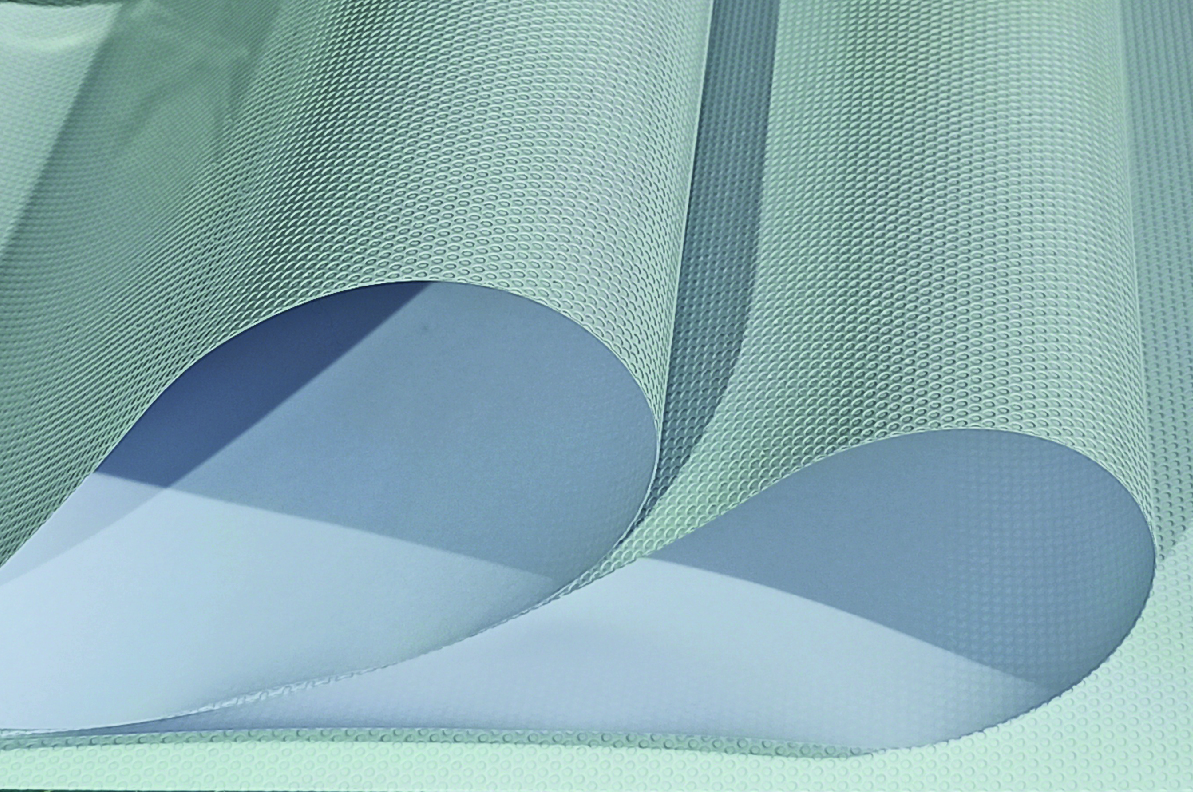
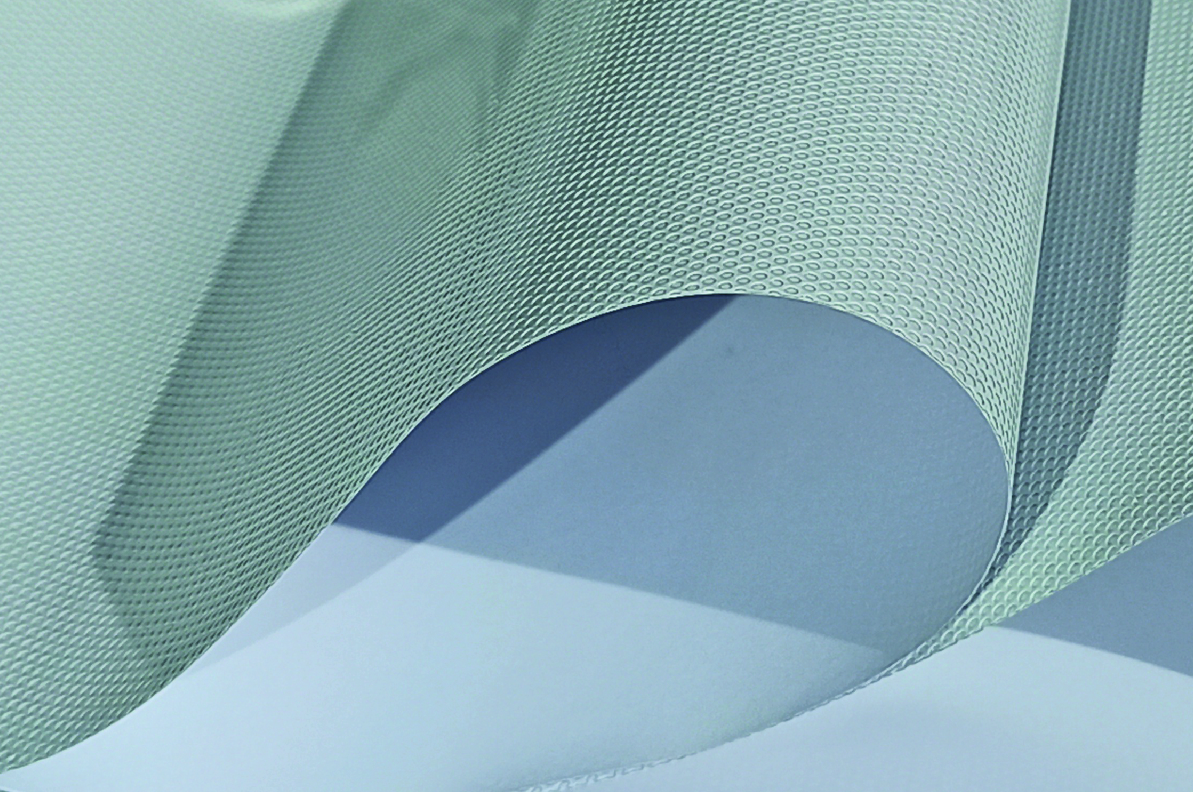
some changes

diff --git a/index.html b/index.html
@@ -31,7 +31,11 @@
             <link rel="preconnect" href="https://fonts.googleapis.com">
             <link rel="preconnect" href="https://fonts.gstatic.com" crossorigin>
             <link href="https://fonts.googleapis.com/css2?family=Poppins:ital,wght@1,600&display=swap" rel="stylesheet">
+            <link rel="preconnect" href="https://fonts.googleapis.com">
+<link rel="preconnect" href="https://fonts.gstatic.com" crossorigin>
+<link href="https://fonts.googleapis.com/css2?family=Ubuntu:wght@700&display=swap" rel="stylesheet">
         <link rel="stylesheet" href="style.css" type="text/css"/>
+        
     </head>
 
     <!-- Las media queries (en español "consultas de medios") son útiles cuando deseas 
@@ -113,11 +117,11 @@
                     <img src="images/sk.jpg" class="d-block" style="width:100%; height:75%; object-fit:cover;" alt="ploteos-gráfica-grando">
                     <div class="carousel-caption d-none d-md-block bg-light bg-opacity-50">
                       
-                      <h2 class="border-bottom d-inline" style="border:botton; color: black;">
+                      <h2 class="contact-txt border-bottom d-inline" style="border:botton; color: black;">
                         SOBRE NOSOTROS
                       </h2>
-                      <p class="fs-3 " style="color:rgb(44, 43, 37);">
-                        Somos una grafica dedicada a la carteleria y publicidad. Ofrecemos servicios de impresión, ploteo, rotulacion y colocacion de carteles.
+                      <p class="contact-txt fs-3 " style="color:rgb(44, 43, 37);">
+                        Somos una gráfica dedicada a la carteleria. Ofrecemos servicios de impresión, ploteado, rotulacion y colocacion de carteles.
                       </p>
                     </div>
 
@@ -249,7 +253,7 @@
                 </div>
                 <div class="col-12 col-md-6 col-lg-4 mt-3">
                   <div class="card text-center w-100 h-auto">
-                    <img src="images/rollo lona blackout.png" class="card-img-top" alt="...">
+                    <img src="images/rollo_blackout_v2.jpg" class="card-img-top" alt="...">
                     <div class="card-body">
                       <h5 class="card-title">Lona Blackout.</h5>
                       <button type="button" class="btn btn-primary" data-bs-toggle="modal" data-bs-target="#modalblack">
@@ -336,7 +340,8 @@
                               </div>
                             </div>
                             <div class="modal-footer">
-                              <button type="button" class="btn btn-primary">Trabajos</button>
+                              
+                              <button class="btn btn-primary" data-bs-toggle="modal" data-bs-target="#trabajo_imagen_014" data-bs-dismiss="modal">Trabajos</button>
                               <button type="button" class="btn btn-secondary" data-bs-dismiss="modal">Cerrar</button>
                             </div>
                             
@@ -393,7 +398,7 @@
                 </div>
                 <div class="col-12 col-md-6 col-lg-4 mt-3">
                   <div class="card text-center w-100 h-auto">
-                    <img src="images/vinilo_microperforado_v2_microperforado_card.jpg" class="card-img-top" alt="...">
+                    <img src="images/microperforado_card.jpg" class="card-img-top" alt="...">
                     <div class="card-body">
                       <h5 class="card-title">Vinilo microperforado.</h5>
                       <button type="button" class="btn btn-primary" data-bs-toggle="modal" data-bs-target="#modalmicro">
@@ -412,7 +417,7 @@
                               <div class="container-fluid">
                                 <div class="row g-2">
                                   <div class="col-12 col-sm-4  ">
-                                    <img src="images/vinilo_microperforado_v2_microperforado_card.jpg" class="d-block w-100" alt="Error 420, Ploteos Nort ya lo soluciona">
+                                    <img src="images/rollo vinilo microperforado.jpg" class="d-block w-100" alt="Error 420, Ploteos Nort ya lo soluciona">
                                   </div>
                                   <div class="col ms-auto">
                                     <ul class="list-group list-group-flush text-start">
@@ -447,21 +452,24 @@
                   <div class="card" style="height: auto;">
                     <div class="card-header">
                         <h2>
-                          Esmerilados
+                          Esmerilados   
                         </h2>
                     </div>
                     <div class="card-body">
                         <div class="row p-3"> 
                           <div class="col-12 col-md-8 col-lg-8 text-start border-end" style="border:end;">
-                            <p class="fs-5" style="color:black;">
-                              El esmerilado es un tipo de vinilo translucido generalmente usado en la decoración de espacios, oficinas y locales. 
-                            </p>
-                            <p class="fs-5" style="color:black;">
-                              Aplicaciones: <br>mamparas, aberturas, vidrieras.
+                            
+                            <p class="fs-5" style="font-family:'Ubuntu', sans-serif; color: black;">
+                              Mamparas, aberturas, vidrieras y más.
                             </p>  
-                            <p class="fs-5" style="color:rgb(25, 163, 15);">
-                              Descargá nuestro catálogo y elegí el diseño que más te gusta.
-                            </p> 
+                            <p class="fs-5" style="font-family:'Ubuntu', sans-serif; color:rgb(25, 163, 15);">
+                              Descargá nuestro catálogo de  <a data-bs-toggle="collapse" href="#collapseEsmerilado" aria-expanded="false" aria-controls="collapseEsmerilado">esmerilados</a> y elegí el diseño que más te gusta.
+                            </p>
+                            <div class="collapse" id="collapseEsmerilado">
+                              <div class="card card-body h-auto" style="font-family:'Ubuntu', sans-serif; color:rgb(127, 127, 127);">
+                                El esmerilado es un tipo de vinilo translucido generalmente usado en la decoración de espacios, oficinas y locales. 
+                              </div>
+                            </div> 
                             <div class="p-3  pt-5 d-grid gap-2 d-md-flex justify-content-end">
                               <a class="btn btn-warning btn-lg" href="descargar/catalogo_esmerilados_ploteosnort.pdf" download="catalogo_esmerilados_ploteosnort.pdf">Descargar PDF</a>
                             </div>
@@ -486,10 +494,10 @@
                           <div class="col text-end"><embed src="/SVG/sticker_plot_despegado.svg" alt="..." style="height: 3rem; width: 3rem;" ></div>
                         </div>
                       </div>
-                      <div class="card-body ">
+                      <div class="card-body">
                         <div class="row pb-3 justify-content-center">
                           <h3 class="text-center">¡Pedí tu plancha de stickers personalizables!</h3>
-                          <p class="text-center">los precios varian según la complejidad del corte</p>
+                          <p class="text-center" style="color:rgb(48, 48, 48)">los precios varian según la complejidad del corte</p>
                           <img src="/images/hoja_sticker_sombrav2.png" style="width: 75%; height: auto;" class="img-fluid" alt="...">
                         </div>
 
@@ -904,7 +912,7 @@
                 <embed src="/SVG/telephone.svg" alt="..." width="32" height="32">
               </div>
               <div class="col p-1 ">
-                <p class="p-1 m-0">
+                <p class="contact-txt p-1 m-0">
                   Escribinos por whatsapp (0351) <a></a>
                 </p>
               </div>
@@ -914,7 +922,7 @@
                 <img src="/SVG/envelope.svg" class="text-center" width="32" height="32">
               </div>
               <div class="col p-1">
-                <p class="p-1 m-0">
+                <p class="contact-txt p-1 m-0">
                   Mandanos un mail a ploteosnort@gmail.com pidiendo tu presupuesto.
                   </p>
               </div>
@@ -924,7 +932,7 @@
                 <embed src="/SVG/instagram.svg" alt="..." width="32" height="32">
               </div>
               <div class="col p-1">
-                <p class="p-1 m-0">
+                <p class="contact-txt p-1 m-0">
                   Nos podes encontrar en instagram como @ploteosnort 
                 </p>
               </div> 
@@ -936,7 +944,7 @@
                 <img src="/SVG/envelope.svg" alt="..." width="32" height="32">
               </div>
               <div class="col-12 p-1 ">
-                <p class="p-1 m-0 text-center">
+                <p class="contact-txt p-1 m-0 text-center">
                   Mandanos un mail a ploteosnort@gmail.com pidiendo tu presupuesto.
                   </p>
               </div>
@@ -946,7 +954,7 @@
                 <embed src="/SVG/telephone.svg" alt="..." width="32" height="32">
               </div>
               <div class="col-12 p-1 ">
-                <p class="p-1 m-0 text text-center">
+                <p class="contact-txt p-1 m-0 text text-center">
                   Escribinos por whatsapp (0351) <a></a>
                 </p>
               </div>
@@ -956,7 +964,7 @@
                 <embed src="/SVG/instagram.svg" alt="..." width="32" height="32">
               </div>
               <div class="col-12 p-1">
-                <p class="p-1 m-0 text-center">
+                <p class="contact-txt p-1 m-0 text-center">
                   Nos podes encontrar en instagram como @ploteosnort 
                 </p>
               </div> 

diff --git a/style.css b/style.css
@@ -1,21 +1,28 @@
 
 
 .body{
-    font-family: 10em sans-serif;
-    margin: 0em;
+    font-family: 'Ubuntu', sans-serif;
+
 }
 .card-text{
+    font-family: 'Ubuntu', sans-serif;
     font-size: large;
     font-size: 2rem;
     color: black;
 
 }
 .card {
+    font-family: 'Ubuntu', sans-serif;
     height:300px;
     width:auto ;
     
+}
 
+.contact-txt{
+    font-family: 'Ubuntu', sans-serif;
+    color: black;
     
+
 }
 .boton {
     font-family: 'Poppins', sans-serif;
